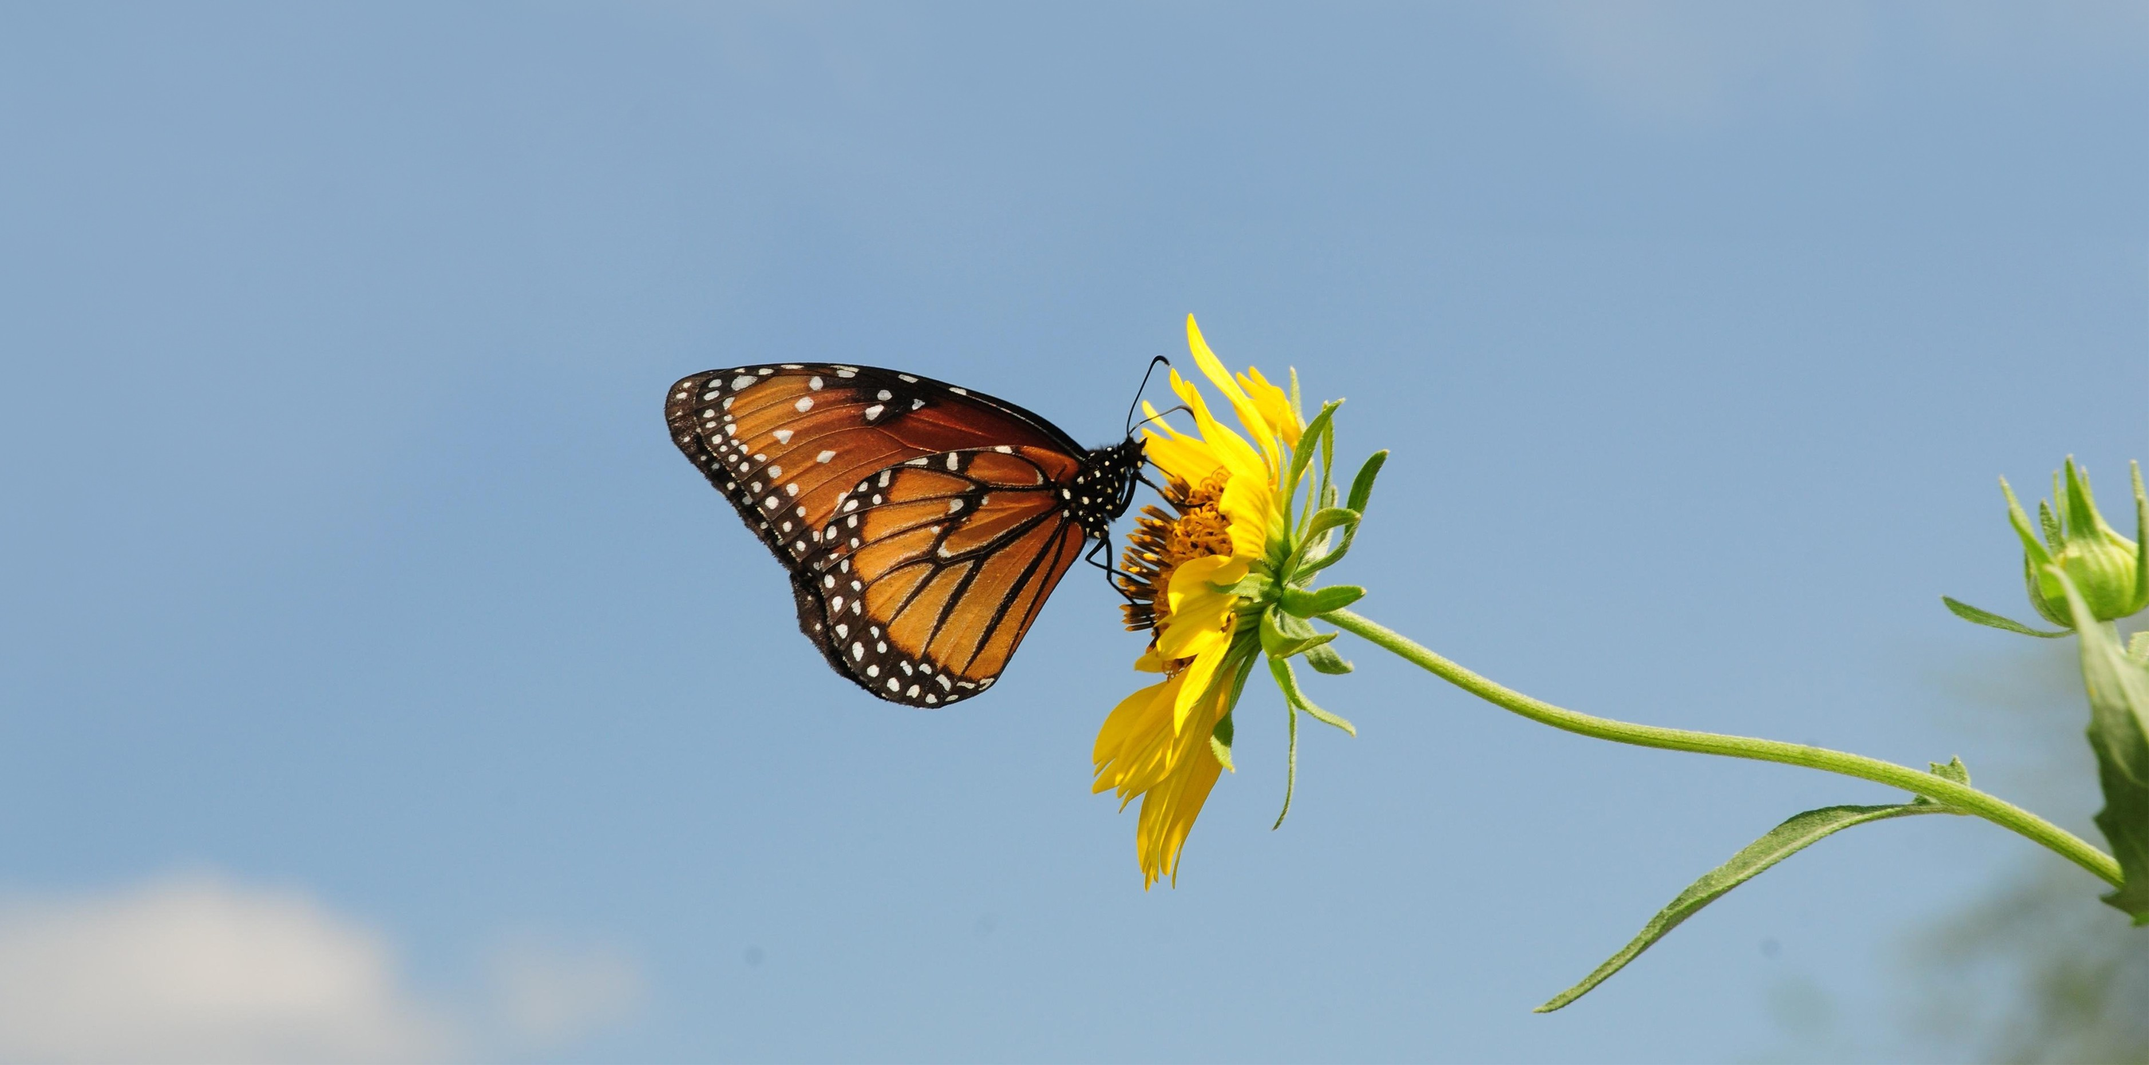
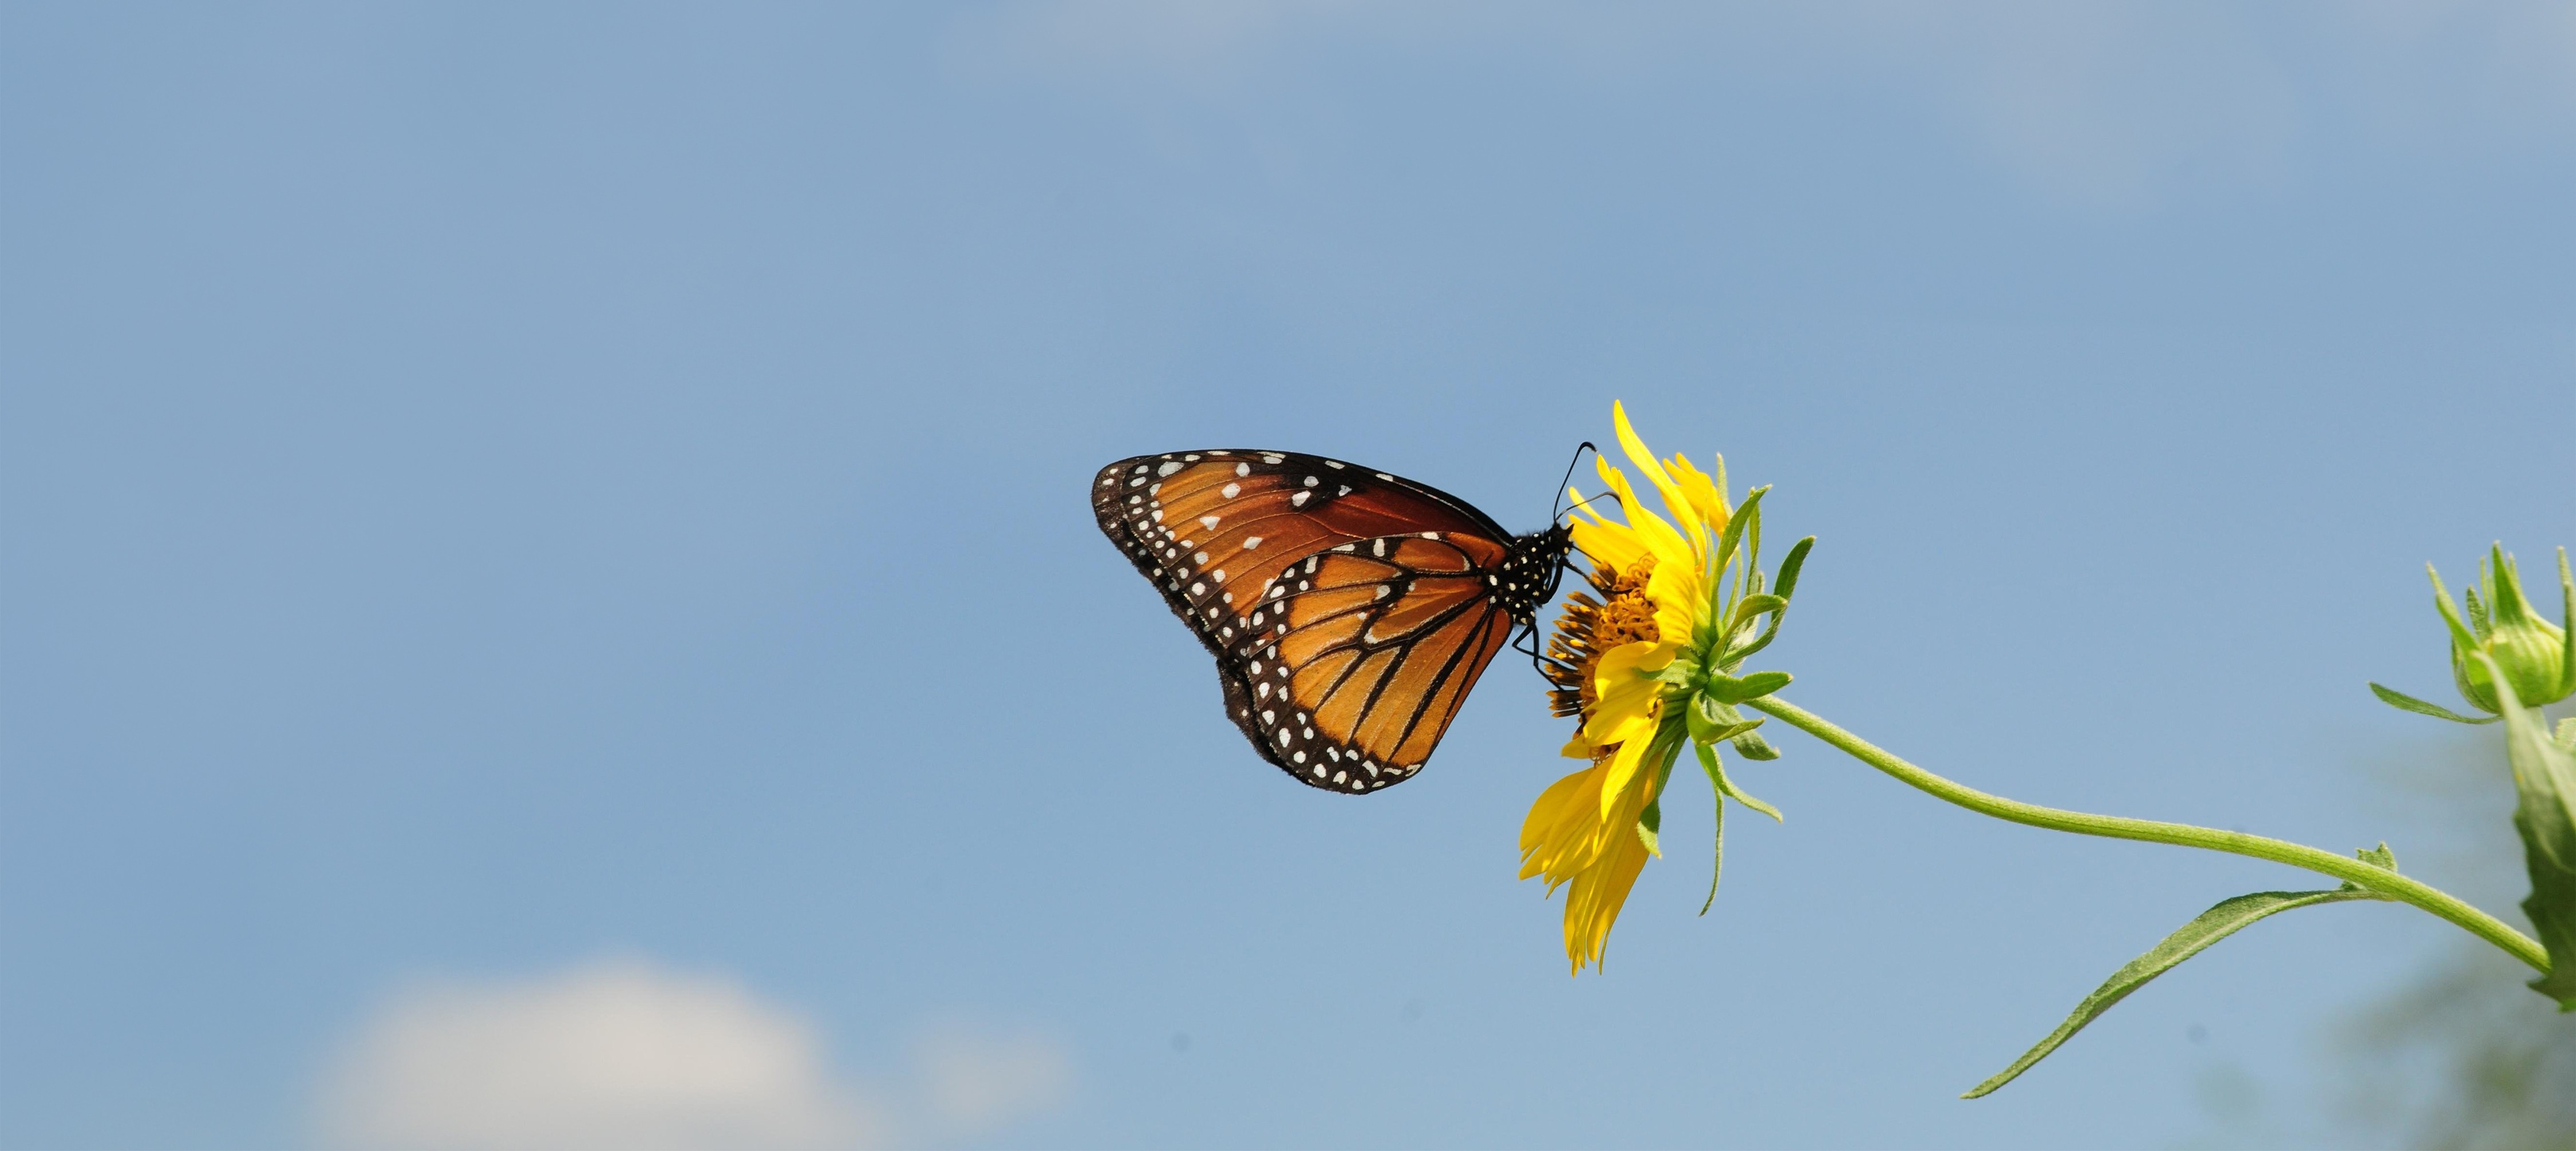
fix v7

diff --git a/app/process/page.tsx b/app/process/page.tsx
@@ -45,30 +45,40 @@ export default function ProcessPage() {
         </p>
       </HeroVideo>
 
-      {/* Timeline Section */}
-      <section className="bg-bg-primary py-16 md:py-24 lg:py-28 border-t border-border">
+      {/* Timeline Section — a horizontal stepper on lg+ (all steps in one
+          row, connected by a single line behind the numbered circles) that
+          collapses back to a stacked list below lg, where five columns of
+          this much text would no longer be readable. Top padding kept
+          lighter than the bottom's: the hero above already ends in its own
+          lg:pb-32 + gradient fade, so a full py-16/24/28 here on top of
+          that read as a dead gap — but it still needs its own clear
+          breathing room from the hero, not zero. */}
+      <section className="bg-bg-primary pt-14 pb-16 md:pt-20 md:pb-24 lg:pt-20 lg:pb-14 border-t border-border">
         <div className="container-wide">
           <SectionReveal>
-            <div className="max-w-4xl mx-auto">
-              <div className="space-y-10 relative before:absolute before:inset-y-0 before:left-6 md:before:left-12 before:w-[1px] before:bg-border">
+            <div className="mx-auto max-w-4xl lg:max-w-none">
+              <div className="relative space-y-10 before:absolute before:inset-y-0 before:left-6 before:w-[1px] before:bg-border md:before:left-12 lg:grid lg:grid-cols-5 lg:gap-6 lg:space-y-0 lg:before:inset-x-0 lg:before:top-4 lg:before:left-0 lg:before:h-[1px] lg:before:w-full lg:before:bg-border">
                 {processSteps.map((step) => (
-                  <div key={step.number} className="relative pl-16 md:pl-28 flex flex-col md:flex-row gap-6 md:gap-12">
+                  <div
+                    key={step.number}
+                    className="relative flex flex-col gap-6 pl-16 md:flex-row md:gap-12 md:pl-28 lg:flex-col lg:items-center lg:gap-0 lg:pl-0 lg:text-center"
+                  >
                     {/* Circle counter */}
-                    <div className="absolute left-2 md:left-8 -translate-x-1/2 w-8 h-8 rounded-full border border-border bg-bg-secondary flex items-center justify-center font-mono text-xs text-accent-gold font-bold">
+                    <div className="absolute left-2 z-10 flex h-8 w-8 -translate-x-1/2 items-center justify-center rounded-full border border-border bg-bg-primary font-mono text-xs font-bold text-accent-gold md:left-8 lg:static lg:translate-x-0">
                       {step.number}
                     </div>
 
-                    <div className="flex-1">
-                      <div className="flex flex-wrap items-center gap-3">
-                        <h2 className="font-display text-3xl text-text-primary">
+                    <div className="flex-1 lg:mt-3">
+                      <div className="flex flex-wrap items-center gap-3 lg:flex-col lg:items-center lg:gap-2">
+                        <h2 className="font-display text-3xl text-text-primary lg:text-xl">
                           {step.title}
                         </h2>
                         <span className="font-mono text-[11px] text-text-muted uppercase tracking-widest border border-border px-2 py-0.5 bg-bg-secondary">
                           {step.timeframe}
                         </span>
                       </div>
-                      
-                      <p className="mt-4 font-body text-body-lg text-text-muted leading-relaxed max-w-2xl">
+
+                      <p className="mt-4 font-body text-body-lg text-text-muted leading-relaxed max-w-2xl lg:mt-2 lg:text-sm">
                         {step.description}
                       </p>
                     </div>

diff --git a/components/ui/HeroDoodles.tsx b/components/ui/HeroDoodles.tsx
@@ -1,0 +1,45 @@
+// Faint hand-drawn line-art scattered across hero backgrounds that have no
+// photo of their own (the "all" / events / sports / branding portfolio
+// categories). Three motifs pulled from the studio's own vocabulary — a
+// quill feather (echoes the logo mark), a botanical sprig (reads for both
+// wedding and memorial work), and a calligraphic flourish (stationery) —
+// scattered at low opacity so they read as texture, not illustration.
+export default function HeroDoodles() {
+  return (
+    <svg
+      className="pointer-events-none absolute inset-0 h-full w-full text-accent-gold"
+      viewBox="0 0 1600 700"
+      preserveAspectRatio="xMidYMid slice"
+      fill="none"
+      aria-hidden="true"
+    >
+      <defs>
+        <symbol id="doodle-feather" viewBox="0 0 100 100" strokeLinecap="round" strokeLinejoin="round">
+          <path d="M50,5 C30,15 20,45 25,75 C30,90 40,95 50,95 C60,95 70,90 75,75 C80,45 70,15 50,5 Z" />
+          <path d="M50,10 L50,90" />
+          <path d="M50,25 L35,32 M50,25 L65,32" />
+          <path d="M50,40 L33,48 M50,40 L67,48" />
+          <path d="M50,55 L35,62 M50,55 L65,62" />
+          <path d="M50,70 L38,76 M50,70 L62,76" />
+        </symbol>
+        <symbol id="doodle-sprig" viewBox="0 0 100 100" strokeLinecap="round" strokeLinejoin="round">
+          <path d="M50,95 C48,70 46,45 45,10" />
+          <path d="M48,80 C60,75 65,65 55,58 C50,65 46,72 48,80 Z" />
+          <path d="M46,60 C34,55 28,45 38,38 C43,45 47,52 46,60 Z" />
+          <path d="M45,38 C57,33 62,23 52,16 C47,23 43,30 45,38 Z" />
+        </symbol>
+        <symbol id="doodle-flourish" viewBox="0 0 100 100" strokeLinecap="round" strokeLinejoin="round">
+          <path d="M10,70 C30,50 20,30 40,25 C55,21 60,35 48,42 C40,47 35,38 42,33" />
+        </symbol>
+      </defs>
+
+      <use href="#doodle-feather" x="1180" y="60" width="130" height="130" stroke="currentColor" strokeWidth="1.1" opacity="0.1" transform="rotate(18 1245 125)" />
+      <use href="#doodle-sprig" x="1380" y="260" width="110" height="110" stroke="currentColor" strokeWidth="1.1" opacity="0.09" transform="rotate(-12 1435 315)" />
+      <use href="#doodle-flourish" x="1250" y="420" width="150" height="150" stroke="currentColor" strokeWidth="1.1" opacity="0.08" transform="rotate(6 1325 495)" />
+      <use href="#doodle-feather" x="60" y="40" width="90" height="90" stroke="currentColor" strokeWidth="1" opacity="0.07" transform="rotate(-24 105 85)" />
+      <use href="#doodle-sprig" x="820" y="30" width="80" height="80" stroke="currentColor" strokeWidth="1" opacity="0.07" transform="rotate(30 860 70)" />
+      <use href="#doodle-flourish" x="1420" y="90" width="120" height="120" stroke="currentColor" strokeWidth="1" opacity="0.07" transform="rotate(-30 1480 150)" />
+      <use href="#doodle-feather" x="1050" y="330" width="70" height="70" stroke="currentColor" strokeWidth="1" opacity="0.06" transform="rotate(40 1085 365)" />
+    </svg>
+  );
+}

diff --git a/app/page.tsx b/app/page.tsx
@@ -80,7 +80,7 @@ export default async function Home() {
       {/* ──────────────────── SECTION 1 — HERO ──────────────────── */}
       <section
         id="hero"
-        className="hero-section relative h-[82vh] min-h-[600px] max-h-[780px] overflow-hidden bg-bg-primary flex items-center pt-28 pb-16"
+        className="hero-section relative h-[88vh] min-h-[680px] max-h-[880px] overflow-hidden bg-bg-primary flex items-center pt-28 pb-16"
       >
         {/* Banner photo — starts below the fixed nav's height (h-20) plus a
             little breathing room, so the nav always sits on the section's
@@ -97,6 +97,13 @@ export default async function Home() {
             style={{ objectPosition: '65% 30%' }}
           />
 
+          {/* Scrim — darkens the left side where the copy sits so it reads
+              clearly regardless of how bright that part of the photo is,
+              fading out toward the right so the image itself stays visible. */}
+          <div
+            className="absolute inset-0"
+            style={{ background: 'linear-gradient(100deg, rgba(10,14,20,0.55) 0%, rgba(10,14,20,0.32) 35%, rgba(10,14,20,0) 68%)' }}
+          />
         </div>
 
         <div className="container-wide relative z-10 w-full">
@@ -105,10 +112,10 @@ export default async function Home() {
             <AnimatedHeadline
               text="Made for every moment"
               accentWord="moment"
-              className="font-display text-display-lg text-text-heading max-w-lg mt-5"
+              className="font-display text-display-lg text-white max-w-lg mt-5 [text-shadow:0_2px_16px_rgba(0,0,0,0.35)]"
             />
 
-            <p className="font-body text-body-lg text-text-muted max-w-lg mt-6">
+            <p className="font-body text-body-lg text-white/90 max-w-lg mt-6 [text-shadow:0_1px_10px_rgba(0,0,0,0.35)]">
               Funerals and Weddings.
               <br />
               Beautiful design and printing for life’s important moments from funeral stationery and keepsakes to wedding invitations.

diff --git a/components/ui/PortfolioHero.tsx b/components/ui/PortfolioHero.tsx
@@ -2,6 +2,7 @@
 
 import { useEffect, useMemo, useRef, useState } from 'react';
 import Image from 'next/image';
+import HeroDoodles from '@/components/ui/HeroDoodles';
 
 // Only the funeral portfolio gets a background video — every other category
 // keeps its animated gradient. Swap or add a category key here to extend it.
@@ -193,7 +194,9 @@ export default function PortfolioHero({ activeCategory }: PortfolioHeroProps) {
             backgroundSize: '400% 400%',
             animation: 'hero-gradient-shift 12s ease infinite',
           }}
-        />
+        >
+          <HeroDoodles />
+        </div>
       )}
 
       {/* Gradient overlay — smooth bottom transition */}
